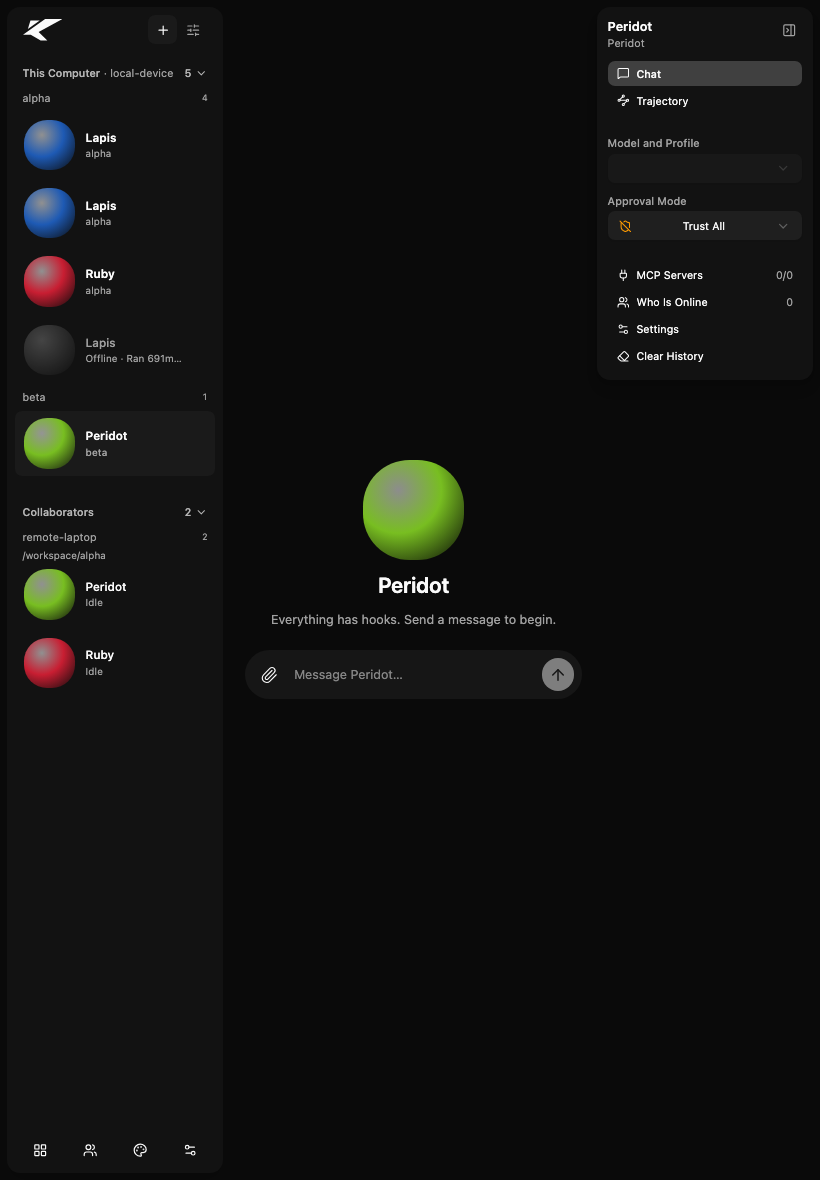
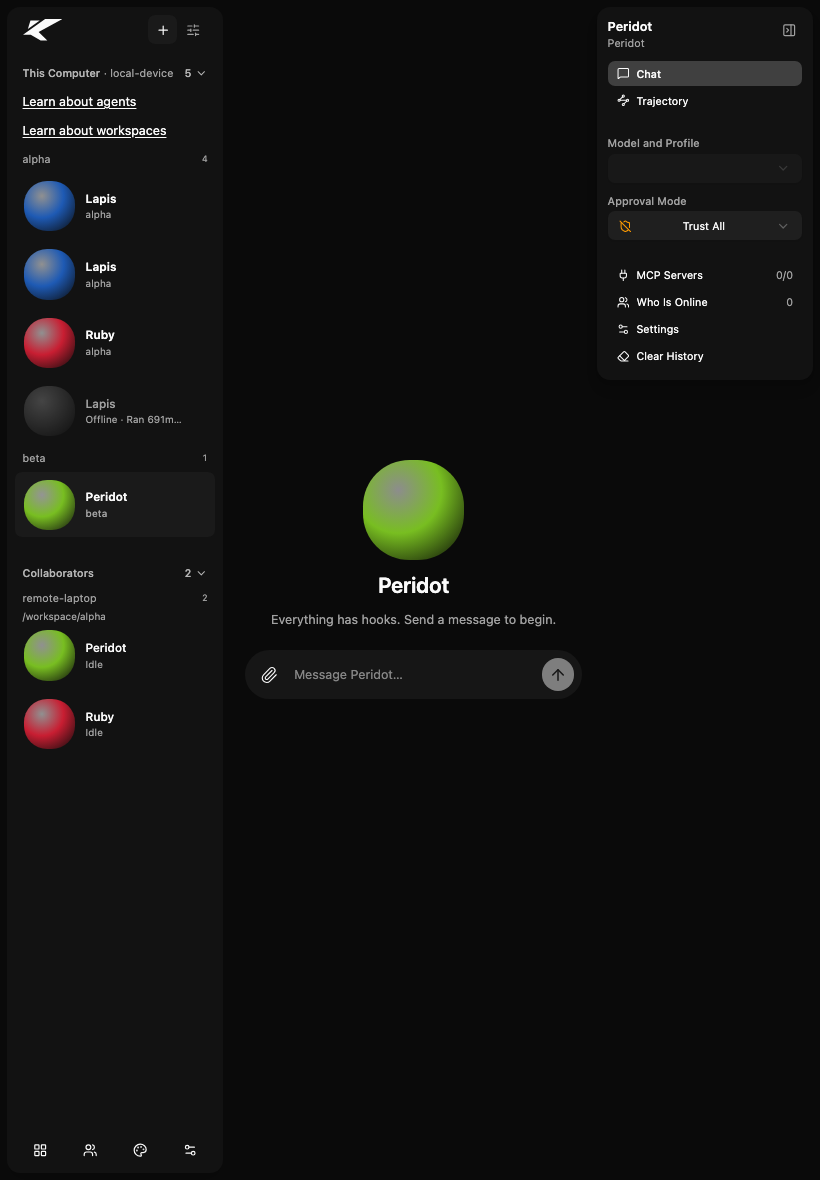
docs(webui): refresh issue 263 accessibility evidence

Changed region(s): [[0.0305, 0.061, 0.2134, 0.6407]]

diff --git a/docs/verification/issue-263/README.md b/docs/verification/issue-263/README.md
@@ -1,36 +1,56 @@
 # Issue #263 browser verification
 
-Captured on branch `issue-263-agent-list-order` at `270a0b0a` with headless
-Google Chrome and the worktree-local frontend build.
+Captured from source commit `65cb9f23` on branch `issue-263-agent-list-order` with
+headless Google Chrome and the worktree-local Vite build.
 
-The API was intentionally mocked. Chrome blocked requests to the live engine
-(`127.0.0.1:7433`, including WebSocket) and API proxy (`127.0.0.1:8080`); the
-mock supplied repeated local sessions for the same identity/workspace, an
-offline overlap, a second workspace, and a remote network/device/workspace. It
-recorded the order POST. No live engine or real agent was contacted.
+The sidebar API was intentionally mocked. Chrome blocked requests to the live
+engine (`127.0.0.1:7433`, including WebSocket) and API proxy (`127.0.0.1:8080`);
+the mock supplied repeated local sessions for one identity/workspace, an offline
+overlap, a second workspace, and a remote network/device/workspace. It recorded
+the order POST. No live engine or real agent was contacted.
 
-Responsive checks used these viewports. Document/body width matched the viewport
-at each size; workspace groups and remote device/workspace rows were visible.
+Responsive checks used the following viewports. Document/body width matched the
+viewport at each size; workspace groups, remote device/workspace rows, and both
+Learn links were visible.
 
 390 x 844 phone viewport:
 
-![390 x 844 sidebar with mocked API](sidebar-390.png)
+![390 x 844 sidebar with mocked API and Learn links](sidebar-390.png)
 
 820 x 1180 tablet viewport:
 
-![820 x 1180 sidebar with mocked API](sidebar-820.png)
+![820 x 1180 sidebar with mocked API and Learn links](sidebar-820.png)
 
 1280 x 900 desktop viewport:
 
-![1280 x 900 sidebar with mocked API](sidebar-1280.png)
+![1280 x 900 sidebar with mocked API and Learn links](sidebar-1280.png)
 
 The second live Lapis session row exposes Move Up and Move Down independently
-from the other same-identity rows; Move Down sent unique session keys plus the
+from other same-identity rows. Move Down sent unique session keys plus the
 persona/offline fallback anchor to the mock API:
 
 ![1280 x 900 duplicate local session order menu with mocked API](sidebar-order-menu-1280.png)
 
-This is responsive UI and menu evidence only, not an end-to-end engine/browser
-run. Engine persistence and stale-client behavior are covered separately by
-`packages/kollabor-engine/tests/test_sidebar_order.py`, including a fresh OS
-process reading the saved order through `GET /sessions`.
+Accessibility and layout checks on the rendered Learn links:
+
+- Text contrast measured 17.95:1 against the sidebar background.
+- The foreground keyboard focus indicator measured 3.95:1, with a visible 2 px
+  outline; Tab reached both links and reported `:focus-visible`.
+- Link text rendered at 12.6 px and each target measured 29 px high.
+- No horizontal overflow at the three viewport sizes; initial layout shift was
+  0.000014 and no JavaScript/console errors were observed.
+
+Combined Learn route verification used a temporary tree pinned to Learn PR #278
+at `f47f3de376c4a11195ffa504306889183fc51889`. Only the two exact anchor blocks
+from #272 commit `65cb9f23` were applied to that temporary copy; this was a route
+integration check, not a branch merge. Agents opened `/learn?topic=agents` and
+Workspaces opened `/learn?topic=workspaces`, rendering the corresponding lesson
+headings. The `learnHref`/`readLearnRoute` contract tests passed 2/2, and the
+combined frontend typecheck/build passed. No files were changed on PR #278.
+Its current topic content does not yet describe the new Move Up/Move Down
+ordering control; that Learn-content item remains open.
+
+This is responsive UI, menu, and combined-route evidence only, not a live
+browser-to-engine end-to-end run. Engine persistence and stale-client behavior
+are covered separately by `packages/kollabor-engine/tests/test_sidebar_order.py`,
+including a fresh OS process reading saved order through `GET /sessions`.
